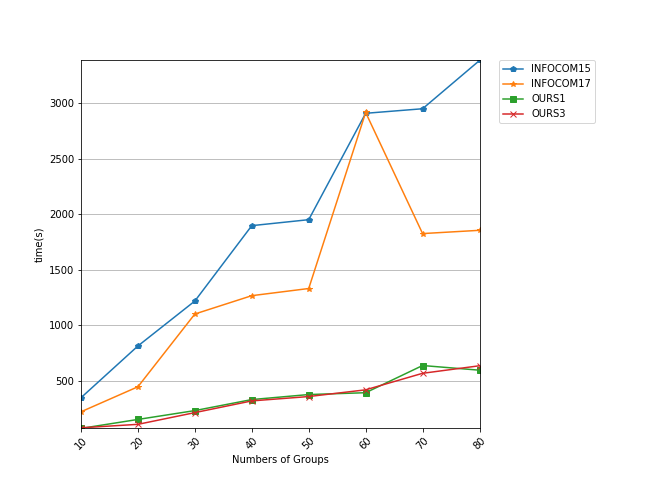
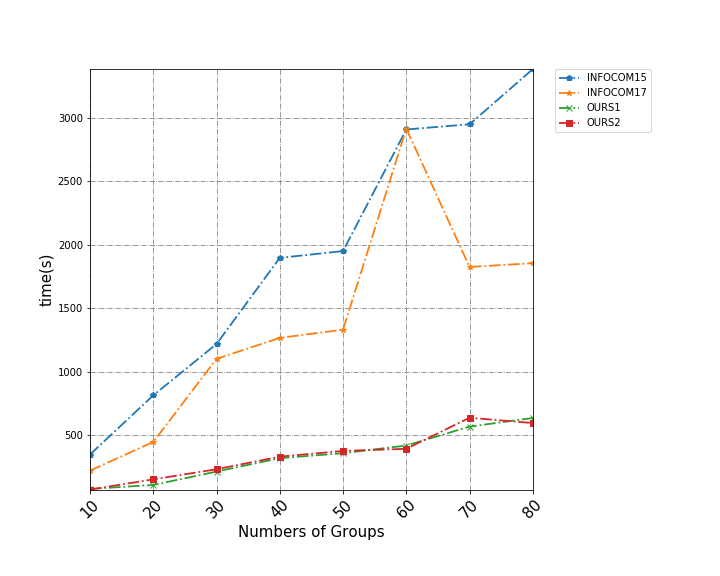
change ours1,3 to ours2,1

diff --git a/time_lineChart.py b/time_lineChart.py
@@ -1,4 +1,7 @@
 # encoding=utf-8
+'''
+将标注OURS1改成OURS2，将OURS3改成OURS1
+'''
 import matplotlib.pyplot as plt
 
 def read_time(K,epsilon,pro_name):
@@ -32,31 +35,31 @@ if __name__ == '__main__':
         #pl.xlim(-1, 11) # 限定横轴的范围
         #pl.ylim(-1, 110) # 限定纵轴的范围
         
-        p_long=9
-        p_width=7
+        p_long=10
+        p_width=8
         #初始化画布
         plt.figure(figsize=(p_long,p_width))
         
         #x轴
         names = [10, 20, 30, 40, 50, 60, 70, 80]
         x = range(len(names))       
-        plt.plot(x, infocom15_means,marker='p',label='INFOCOM15')
-        plt.plot(x, infocom17_means,marker='*',label='INFOCOM17')
-        plt.plot(x, ours1_means,marker='s',label='OURS1')
-        plt.plot(x, ours3_means,marker='x',label='OURS3')
+        plt.plot(x, infocom15_means,linewidth=1.8,linestyle='-.',marker='p',label='INFOCOM15')
+        plt.plot(x, infocom17_means,linewidth=1.8,linestyle='-.',marker='*',label='INFOCOM17')
+        plt.plot(x, ours3_means,linewidth=1.8,linestyle='-.',marker='x',label='OURS1')
+        plt.plot(x, ours1_means,linewidth=1.8,linestyle='-.',marker='s',label='OURS2')
         
         #plt.legend(loc='best') # 让图例生效
         plt.legend(loc=2, bbox_to_anchor=(1.05,1.0),borderaxespad = 0)
-        plt.xticks(x, names, rotation=45)
+        plt.xticks(x, names, rotation=45,fontsize=15)
         plt.margins(0)
         plt.subplots_adjust(bottom=0.15,right=0.74)
         
-        plt.xlabel('Numbers of Groups') 
-        plt.ylabel('time(s)')
+        plt.xlabel('Numbers of Groups',fontsize=15) 
+        plt.ylabel('time(s)',fontsize=15)
         plt.title('')
         
         #网格
-        plt.grid(alpha=1,axis='y',linestyle='-')  
+        plt.grid(alpha=1,linestyle='-.',c='gray')  
         
         #plt.show()
         plt.savefig('output/time/'+'_e('+str(E[e])+')'+'.png')

diff --git a/图组合(1).py b/图组合(1).py
@@ -1,0 +1,48 @@
+# -*- coding: utf-8 -*-
+"""
+Created on Mon Apr 22 16:47:48 2019
+
+@author: jidi
+"""
+
+# encoding=utf-8
+import matplotlib.pyplot as plt
+from pylab import *                                 #支持中文
+plt.rcParams['font.sans-serif'] = ['SimHei']
+plt.grid()  # 生成网格
+plt.grid(axis="y")
+axis='x'
+plt.grid(linestyle='--')
+plt.grid(ls='-.')
+plt.grid(c='gray')
+names = ['3', '5', '7', '9', '11','13','15']
+x = range(len(names))
+y = [13,15,21,29,31,32,34]
+y1=[9,11,18,26,28,29,31]
+y2= [11,13,20,27,28,30,31]
+y3=[8,10,15,21,23,25,29]
+y4= [9,11,19,25,27,28,29]
+y5=[7,8,15,20,23,25,27]
+#plt.plot(x, y, 'ro-')
+#plt.plot(x, y1, 'bo-')
+#pl.xlim(-1, 11)  # 限定横轴的范围
+#pl.ylim(-1, 110)  # 限定纵轴的范围
+plt.plot(x, y, color='r',linewidth=1.8,linestyle=':',marker='H',mfc='w',label='CTPP f=25%')
+plt.plot(x, y1, color='darkgreen',linewidth=1.8,marker='D',mfc='w',label=r'$k^τ$   f=25%' )
+plt.plot(x, y2, color='coral',linewidth=1.8,linestyle='-.',marker='x',mfc='r',label='CTPP f=50%')
+plt.plot(x, y3, color='b',linewidth=1.8,linestyle='-.',marker='H',mfc='w',label=r'$k^τ$   f=50%')
+plt.plot(x, y4, color='darkviolet',linewidth=1.8,linestyle=':',marker='o',mfc='w',label='CTPP f=75%')
+plt.plot(x, y5, color='k',linewidth=1.8,linestyle='-.',marker='x',mfc='w',label=r'$k^τ$   f=75%')
+plt.plot(fontsize=15)
+plt.legend()  # 让图例生效
+plt.xticks(x, names,fontsize=15)
+plt.yticks(fontsize=15)
+plt.margins(0)
+plt.subplots_adjust(bottom=0.15)
+#plt.xlim(1,15)#设置横坐标范围
+plt.ylim(6,35)#设置横坐标范围
+plt.xlabel("h",fontsize=15) #X轴标签
+plt.ylabel("communication cost",fontsize=15) #Y轴标签
+plt.title(r'$N_m$''$_a$''$_x$=6',fontsize=15) #标题
+
+plt.show()

diff --git a/wrq_lineChart.py b/wrq_lineChart.py
@@ -1,6 +1,8 @@
 # encoding=utf-8
 import matplotlib.pyplot as plt
-
+'''
+将标注OURS1改成OURS2，将OURS3改成OURS1
+'''
 def read_wrq(pro_name,E,K,D):
     #name*epsilon*k*delta
     means=[]
@@ -61,8 +63,8 @@ if __name__ == '__main__':
             
             new.plot(x, infocom15_means,linewidth=1.8,linestyle='-.',marker='p',label='INFOCOM15')
             new.plot(x, infocom17_means,linewidth=1.8,linestyle='-.',marker='*',label='INFOCOM17')
-            new.plot(x, ours1_means,linewidth=1.8,linestyle='-.',marker='s',label='OURS1')
-            new.plot(x, ours3_means,linewidth=1.8,linestyle='-.',marker='x',label='OURS3')
+            new.plot(x, ours3_means,linewidth=1.8,linestyle='-.',marker='x',label='OURS1')
+            new.plot(x, ours1_means,linewidth=1.8,linestyle='-.',marker='s',label='OURS2')
             
             ax.append(new)
         
@@ -75,7 +77,8 @@ if __name__ == '__main__':
             plt.subplots_adjust(bottom=0.15)
             plt.xlabel('(Numbers of Groups)',fontsize=15) 
             plt.ylabel('wrq',fontsize=15)
-            
+            plt.title('delta='+str(D[d]))
+            plt.tight_layout()
             #网格
             plt.grid(alpha=1,linestyle='-.',c='gray')  
             #plt.subplots_adjust(right=0.72)

diff --git a/m_info_barchart.py b/m_info_barchart.py
@@ -1,6 +1,8 @@
 import numpy as np
 import matplotlib.pyplot as plt
-
+'''
+将标注OURS1改成OURS2，将OURS3改成OURS1
+'''
 #互信息
 def read_m_info(K,epsilon,pro_name):
     means=[]
@@ -39,10 +41,10 @@ if __name__ == '__main__':
                         color='#000000', label='INFOCOM15')
         rects2 = ax.bar(ind - width/4-deltaDis, infocom17_means, width/2,
                         color='#FAEBD7', label='INFOCOM17')
-        rects3 = ax.bar(ind + width/4, ours1_means, width/2,
-                        color='#808A87', label='OURS1')
         rects4 = ax.bar(ind + width*3/4+deltaDis, ours3_means, width/2,
-                        color='#DCDCDC', label='OURS3')
+                        color='#DCDCDC', label='OURS1')
+        rects3 = ax.bar(ind + width/4, ours1_means, width/2,
+                        color='#808A87', label='OURS2')
         
         ax.set_xlabel('Numbers of Groups'+' (epsilon='+str(epsilon)+')')
         ax.set_ylabel('Mutual Inforcomation')

diff --git a/Hausdorff_barchart.py b/Hausdorff_barchart.py
@@ -1,6 +1,9 @@
 import numpy as np
 import matplotlib.pyplot as plt
 
+'''
+将标注OURS1改成OURS2，将OURS3改成OURS1
+'''
 #互信息
 def read_m_info(K,epsilon,pro_name):
     means=[]
@@ -39,10 +42,10 @@ if __name__ == '__main__':
                         color='#000000', label='INFOCOM15')
         rects2 = ax.bar(ind - width/4-deltaDis, infocom17_means, width/2,
                         color='#FAEBD7', label='INFOCOM17')
-        rects3 = ax.bar(ind + width/4, ours1_means, width/2,
-                        color='#808A87', label='OURS1')
         rects4 = ax.bar(ind + width*3/4+deltaDis, ours3_means, width/2,
-                        color='#DCDCDC', label='OURS3')
+                        color='#DCDCDC', label='OURS1')
+        rects3 = ax.bar(ind + width/4, ours1_means, width/2,
+                        color='#808A87', label='OURS2')
         
         ax.set_xlabel('Numbers of Groups'+' (epsilon='+str(epsilon)+')')
         ax.set_ylabel('Hausdorff')

diff --git a/Hausdorff_lineChart.py b/Hausdorff_lineChart.py
@@ -1,6 +1,8 @@
 # encoding=utf-8
 import matplotlib.pyplot as plt
-
+'''
+将标注OURS1改成OURS2，将OURS3改成OURS1
+'''
 def read_Hausdorff(K,epsilon,pro_name):
     means=[]
     for i in range(len(pro_name)):
@@ -46,8 +48,8 @@ if __name__ == '__main__':
         x = range(len(names))       
         plt.plot(x, infocom15_means[e],marker='p',label='INFOCOM15 epsilon='+str(E[e]))
         plt.plot(x, infocom17_means[e],marker='*',label='INFOCOM17 epsilon='+str(E[e]))
-        plt.plot(x, ours1_means[e],marker='s',label='OURS1 epsilon='+str(E[e]))
-        plt.plot(x, ours3_means[e],marker='x',label='OURS3 epsilon='+str(E[e]))
+        plt.plot(x, ours3_means[e],marker='x',label='OURS1 epsilon='+str(E[e]))
+        plt.plot(x, ours1_means[e],marker='s',label='OURS2 epsilon='+str(E[e]))
         
         #plt.legend(loc='best') # 让图例生效
         plt.legend(loc=2, bbox_to_anchor=(1.05,1.0),borderaxespad = 0)

diff --git a/time_3d.py b/time_3d.py
@@ -2,7 +2,9 @@
 import matplotlib.pyplot as plt
 import numpy as np
 from mpl_toolkits.mplot3d import Axes3D
-
+'''
+将标注OURS1改成OURS2，将OURS3改成OURS1
+'''
 def read_time(K,E,pro_name):
     means=[]
     for p in range(len(pro_name)):
@@ -23,6 +25,7 @@ def read_time(K,E,pro_name):
 if __name__ == '__main__':
     
     pro_name=['INFOCOM15','INFOCOM17','OURS1','OURS3']
+    output_name=['INFOCOM15','INFOCOM17','OURS2','OURS1']
     K = [10, 20, 30, 40, 50, 60, 70, 80]
     E = [0.1, 0.5, 1.0, 1.5, 2.0]
     #p*k*e
@@ -41,6 +44,6 @@ if __name__ == '__main__':
         ax.set_xlabel('epsilon')
         ax.set_ylabel('Numbers of Groups')
         ax.set_zlabel('time(s)')
-        ax.set_title(pro_name[p])
+        ax.set_title(output_name[p])
         #plt.show()
         plt.savefig('output/time_3d/'+pro_name[p]+'.jpg')
